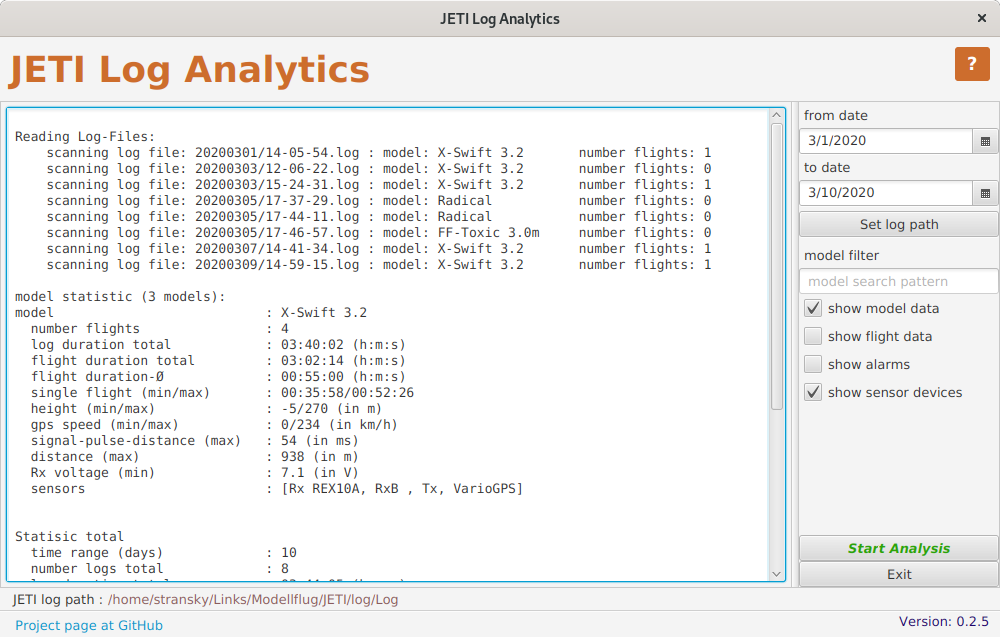
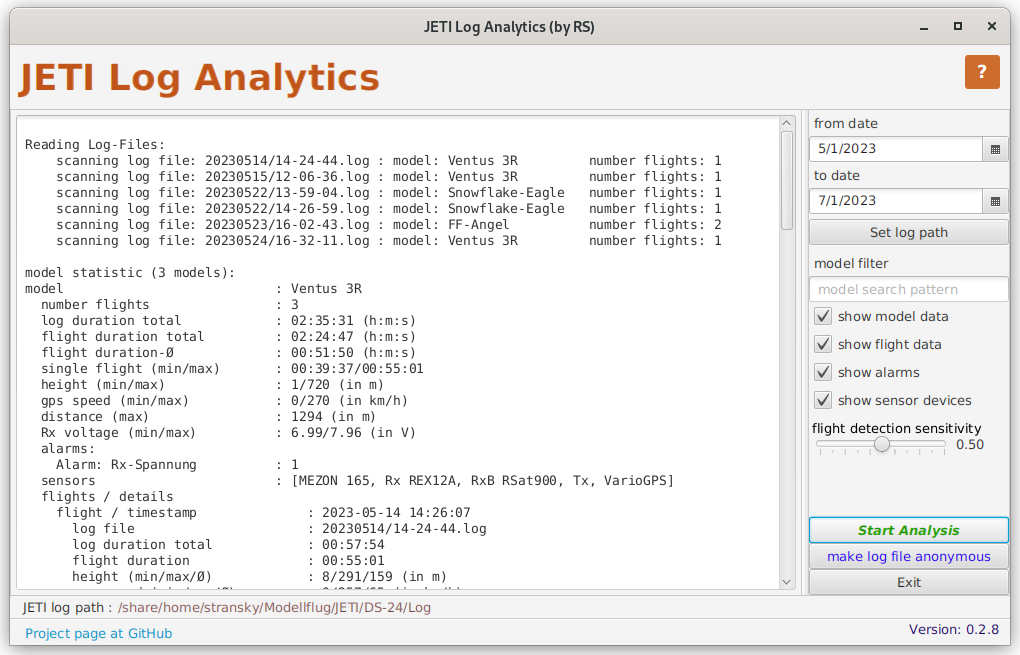
0.2.8 : 06/2023 RS : added flight detection sensitivity to GUI and NOGUI

Changed region(s): [[0.0, 0.0, 1.0, 1.0]]

diff --git a/README.md b/README.md
@@ -7,6 +7,7 @@ The current version of JETI Log Analytics can be used in a command line mode or 
 
 ## Details
 The application is written to extract detailed data per flight, per model and total. One of the main features is a flight detection algorithm (based on the signal levels A1 and A2 given by any RX of JETI), which does provides extraction of detailed data only if the model is not in the near area of the transmitter (air field, workbench, ...).
+The sensitivity for this flight detection can be adjustet, to get proper flight data.
 
 JET Log Analytics needs only a base directory as argument to find the JETI log files in their date based folder structure. It scans all files and gives information about files, models, flights and overall data.
 It is possible to give a date range to filter the given information to the need range.
@@ -96,13 +97,14 @@ Some more details in German and an browser based version of JetiLogAnalytics is 
 	$ /remote/netdata/nas/JetiLogAnalytics.sh --help
 	usage: JetiLogAnalytics [option]
 	scans JETI log files found in folder and printout the results of total, model, flight statistic
-	Example: java -jar JetiLogAnalytics-nls DE -nogui -dir ./testData/ 
+	Example: java -jar JetiLogAnalytics-nls DE -nogui -dir ./testData/ --sensi 0.6
 	
 	options:
 	 --nogui                      commndline mode and textoutput only application
 	 --dir <path to log-folder>   path used in command line mode
 	 --from <YYYY-MM-DD>          date to start analysing log files, if omitted all log files found are analysed
 	 --to <YYYY-MM-DD>            date to end analysing log files, if omitted all log files found are analysed
+     --sensi <value>              sensitivity used for flight detection, float range: 0.0-1.0
 	
 ## Software
 This git repository is a Eclipse workspace. So if you want to build the software for yourself, clone the project to a folder and set this folder as a Eclipse workspace.
